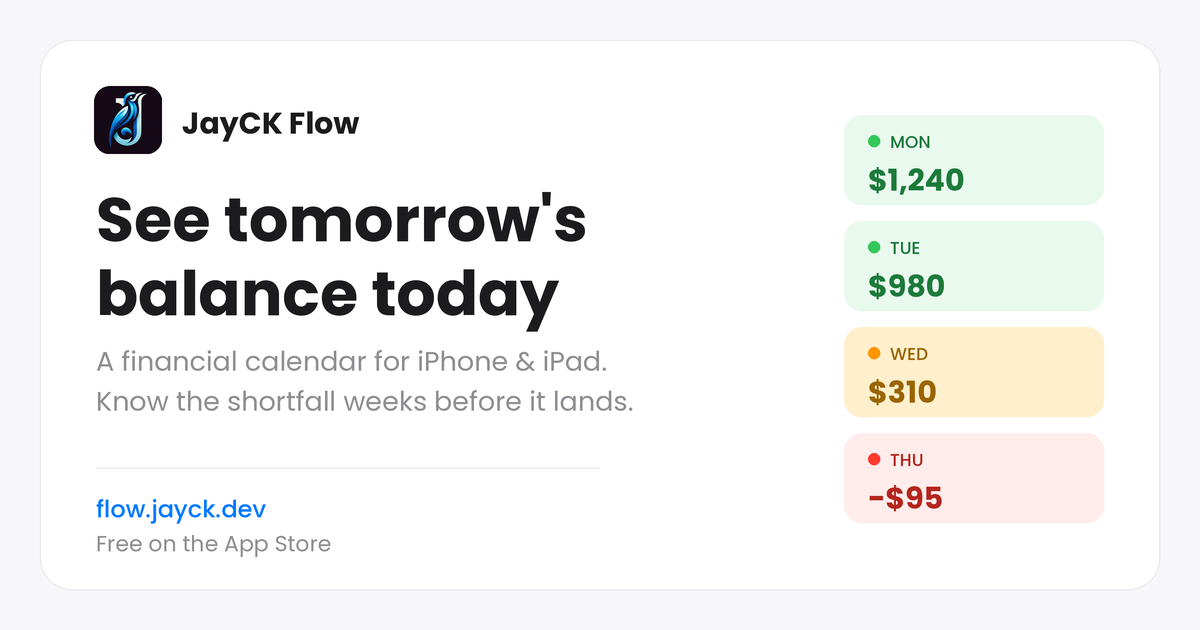
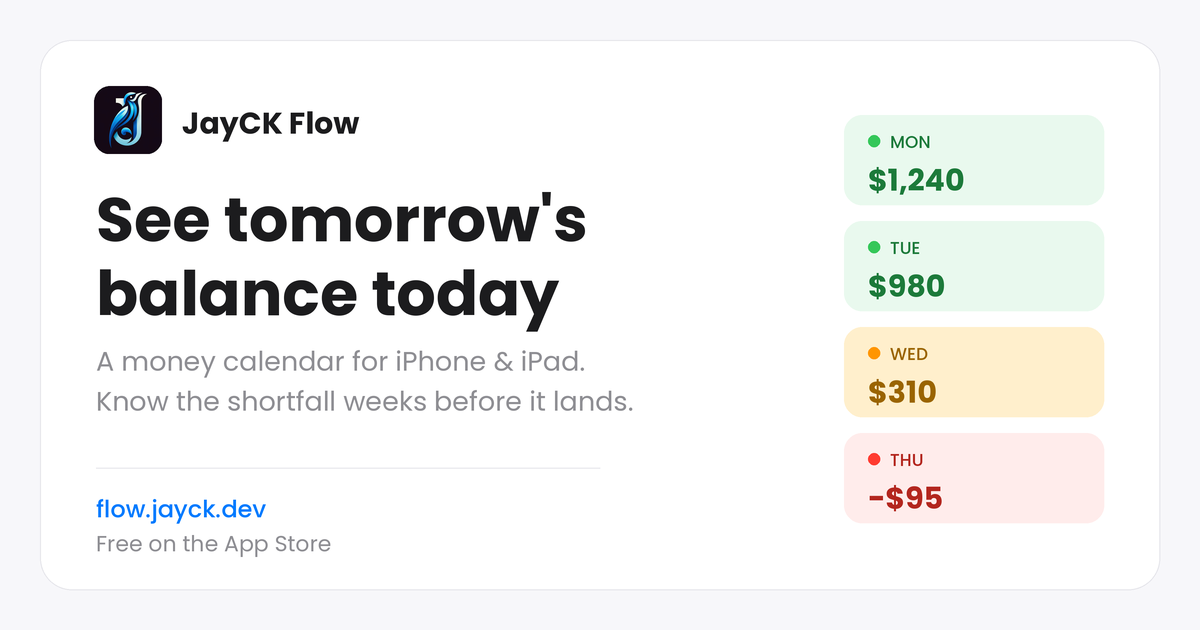
Add files via upload

Changed region(s): [[0.0925, 0.5429, 0.4933, 0.6032]]

diff --git a/index.html b/index.html
@@ -4,25 +4,25 @@
 <meta charset="UTF-8">
 <meta name="viewport" content="width=device-width, initial-scale=1.0, viewport-fit=cover">
 <title>JayCK Flow — See tomorrow's balance today</title>
-<meta name="description" content="JayCK Flow is a financial calendar for iPhone and iPad that shows your future balance before money decisions happen. Free on the App Store.">
+<meta name="description" content="JayCK Flow is a money calendar for iPhone and iPad that shows your future balance before money decisions happen. Free on the App Store.">
 <link rel="canonical" href="https://flow.jayck.dev/">
 <meta property="og:type" content="website">
 <meta property="og:site_name" content="JayCK Flow">
 <meta property="og:url" content="https://flow.jayck.dev/">
 <meta property="og:title" content="JayCK Flow — See tomorrow&#x27;s balance today">
-<meta property="og:description" content="JayCK Flow is a financial calendar for iPhone and iPad that shows your future balance before money decisions happen. Free on the App Store.">
+<meta property="og:description" content="JayCK Flow is a money calendar for iPhone and iPad that shows your future balance before money decisions happen. Free on the App Store.">
 <meta property="og:image" content="https://flow.jayck.dev/og.png">
 <meta property="og:image:secure_url" content="https://flow.jayck.dev/og.png">
 <meta property="og:image:type" content="image/png">
 <meta property="og:image:width" content="1200">
 <meta property="og:image:height" content="630">
-<meta property="og:image:alt" content="JayCK Flow: a financial calendar showing a projected balance sliding from green to red across the week">
+<meta property="og:image:alt" content="JayCK Flow: a money calendar showing a projected balance sliding from green to red across the week">
 <meta property="og:locale" content="en_US">
 <meta name="twitter:card" content="summary_large_image">
 <meta name="twitter:title" content="JayCK Flow — See tomorrow&#x27;s balance today">
-<meta name="twitter:description" content="JayCK Flow is a financial calendar for iPhone and iPad that shows your future balance before money decisions happen. Free on the App Store.">
+<meta name="twitter:description" content="JayCK Flow is a money calendar for iPhone and iPad that shows your future balance before money decisions happen. Free on the App Store.">
 <meta name="twitter:image" content="https://flow.jayck.dev/og.png">
-<meta name="twitter:image:alt" content="JayCK Flow: a financial calendar showing a projected balance sliding from green to red across the week">
+<meta name="twitter:image:alt" content="JayCK Flow: a money calendar showing a projected balance sliding from green to red across the week">
 <link rel="icon" href="/favicon.ico" sizes="32x32">
 <link rel="icon" type="image/png" sizes="16x16" href="/favicon-16x16.png">
 <link rel="icon" type="image/png" sizes="32x32" href="/favicon-32x32.png">
@@ -347,7 +347,7 @@
   "applicationCategory": "FinanceApplication",
   "operatingSystem": "iOS",
   "installUrl": "https://apps.apple.com/app/jayck-flow/id6789696499",
-  "description": "A financial calendar for iPhone and iPad that projects your running balance forward, so a shortfall is visible weeks before it lands.",
+  "description": "A money calendar for iPhone and iPad that projects your running balance forward, so a shortfall is visible weeks before it lands.",
   "offers": {
     "@type": "Offer",
     "price": "0",
@@ -377,7 +377,7 @@
     <div class="narrow" style="text-align:center">
       <h1 class="display t-hero rise">See tomorrow's<br>balance today.</h1>
       <p class="lede rise d1" style="margin:var(--s-3) auto 0;max-width:600px">
-        JayCK Flow is a financial calendar. Put your income, bills and plans on a timeline — and know your future balance before you decide.
+        JayCK Flow is a money calendar. Put your income, bills and plans on a timeline — and know your future balance before you decide.
       </p>
       <p class="rise d2" style="margin-top:var(--s-4)">
         <a class="btn" href="https://apps.apple.com/app/jayck-flow/id6789696499">Download on the App Store</a>

diff --git a/terms.html b/terms.html
@@ -16,13 +16,13 @@
 <meta property="og:image:type" content="image/png">
 <meta property="og:image:width" content="1200">
 <meta property="og:image:height" content="630">
-<meta property="og:image:alt" content="JayCK Flow: a financial calendar showing a projected balance sliding from green to red across the week">
+<meta property="og:image:alt" content="JayCK Flow: a money calendar showing a projected balance sliding from green to red across the week">
 <meta property="og:locale" content="en_US">
 <meta name="twitter:card" content="summary_large_image">
 <meta name="twitter:title" content="Terms of Service — JayCK Flow">
 <meta name="twitter:description" content="JayCK Flow terms of service.">
 <meta name="twitter:image" content="https://flow.jayck.dev/og.png">
-<meta name="twitter:image:alt" content="JayCK Flow: a financial calendar showing a projected balance sliding from green to red across the week">
+<meta name="twitter:image:alt" content="JayCK Flow: a money calendar showing a projected balance sliding from green to red across the week">
 <link rel="icon" href="/favicon.ico" sizes="32x32">
 <link rel="icon" type="image/png" sizes="16x16" href="/favicon-16x16.png">
 <link rel="icon" type="image/png" sizes="32x32" href="/favicon-32x32.png">
@@ -109,7 +109,7 @@
 <p class="date">Effective July 18, 2026</p>
 
 <h2>1. The service</h2>
-<p>JayCK Flow is a personal financial calendar: you enter your incomes, bills, and plans, and the app projects your future balance. Projections are estimates computed from what you enter. <strong>JayCK Flow is a planning tool, not financial advice</strong> — decisions you make based on it are your own.</p>
+<p>JayCK Flow is a personal money calendar: you enter your incomes, bills, and plans, and the app projects your future balance. Projections are estimates computed from what you enter. <strong>JayCK Flow is a planning tool, not financial advice</strong> — decisions you make based on it are your own.</p>
 
 <h2>2. Your account and your passphrase</h2>
 <p>An account (email/password, Sign in with Apple, or Google) is optional and only needed for sync. If you enable sync, your data is encrypted on your device before upload using a passphrase that only you know. <strong>We cannot recover your passphrase or decrypt your synced data.</strong> If the passphrase is lost, the encrypted copy stored on our servers cannot be restored — keep your passphrase safe. Your data remains available on devices where it is stored locally.</p>

diff --git a/privacy.html b/privacy.html
@@ -16,13 +16,13 @@
 <meta property="og:image:type" content="image/png">
 <meta property="og:image:width" content="1200">
 <meta property="og:image:height" content="630">
-<meta property="og:image:alt" content="JayCK Flow: a financial calendar showing a projected balance sliding from green to red across the week">
+<meta property="og:image:alt" content="JayCK Flow: a money calendar showing a projected balance sliding from green to red across the week">
 <meta property="og:locale" content="en_US">
 <meta name="twitter:card" content="summary_large_image">
 <meta name="twitter:title" content="Privacy Policy — JayCK Flow">
 <meta name="twitter:description" content="JayCK Flow privacy policy: your budget is encrypted on your device before sync — we cannot read it.">
 <meta name="twitter:image" content="https://flow.jayck.dev/og.png">
-<meta name="twitter:image:alt" content="JayCK Flow: a financial calendar showing a projected balance sliding from green to red across the week">
+<meta name="twitter:image:alt" content="JayCK Flow: a money calendar showing a projected balance sliding from green to red across the week">
 <link rel="icon" href="/favicon.ico" sizes="32x32">
 <link rel="icon" type="image/png" sizes="16x16" href="/favicon-16x16.png">
 <link rel="icon" type="image/png" sizes="32x32" href="/favicon-32x32.png">
@@ -109,7 +109,7 @@
 <p class="date">Effective July 18, 2026</p>
 
 <h2>What JayCK Flow is</h2>
-<p>JayCK Flow is a financial calendar. You enter incomes, bills, and plans yourself; the app projects your future balance. There are no bank connections, no imports of your credentials, and no advertising.</p>
+<p>JayCK Flow is a money calendar. You enter incomes, bills, and plans yourself; the app projects your future balance. There are no bank connections, no imports of your credentials, and no advertising.</p>
 
 <h2>Data that never leaves your device unencrypted</h2>
 <p>Your budget — transactions, categories, balances, savings, debts — lives on your device. If you enable sync, it is encrypted <em>on your device</em> with a passphrase only you know before anything is uploaded. Our server stores an opaque encrypted blob plus a revision number and timestamps. We cannot decrypt it, and we cannot recover your passphrase. JayCK Flow is designed so that we cannot access the contents of your encrypted financial data.</p>

diff --git a/help.html b/help.html
@@ -16,13 +16,13 @@
 <meta property="og:image:type" content="image/png">
 <meta property="og:image:width" content="1200">
 <meta property="og:image:height" content="630">
-<meta property="og:image:alt" content="JayCK Flow: a financial calendar showing a projected balance sliding from green to red across the week">
+<meta property="og:image:alt" content="JayCK Flow: a money calendar showing a projected balance sliding from green to red across the week">
 <meta property="og:locale" content="en_US">
 <meta name="twitter:card" content="summary_large_image">
 <meta name="twitter:title" content="Help — JayCK Flow">
 <meta name="twitter:description" content="A guide to every screen and button in JayCK Flow: the calendar, the balance card, What if?, savings, debts, sync and settings.">
 <meta name="twitter:image" content="https://flow.jayck.dev/og.png">
-<meta name="twitter:image:alt" content="JayCK Flow: a financial calendar showing a projected balance sliding from green to red across the week">
+<meta name="twitter:image:alt" content="JayCK Flow: a money calendar showing a projected balance sliding from green to red across the week">
 <link rel="icon" href="/favicon.ico" sizes="32x32">
 <link rel="icon" type="image/png" sizes="16x16" href="/favicon-16x16.png">
 <link rel="icon" type="image/png" sizes="32x32" href="/favicon-32x32.png">

diff --git a/support.html b/support.html
@@ -16,13 +16,13 @@
 <meta property="og:image:type" content="image/png">
 <meta property="og:image:width" content="1200">
 <meta property="og:image:height" content="630">
-<meta property="og:image:alt" content="JayCK Flow: a financial calendar showing a projected balance sliding from green to red across the week">
+<meta property="og:image:alt" content="JayCK Flow: a money calendar showing a projected balance sliding from green to red across the week">
 <meta property="og:locale" content="en_US">
 <meta name="twitter:card" content="summary_large_image">
 <meta name="twitter:title" content="Support — JayCK Flow">
 <meta name="twitter:description" content="JayCK Flow support and FAQ.">
 <meta name="twitter:image" content="https://flow.jayck.dev/og.png">
-<meta name="twitter:image:alt" content="JayCK Flow: a financial calendar showing a projected balance sliding from green to red across the week">
+<meta name="twitter:image:alt" content="JayCK Flow: a money calendar showing a projected balance sliding from green to red across the week">
 <link rel="icon" href="/favicon.ico" sizes="32x32">
 <link rel="icon" type="image/png" sizes="16x16" href="/favicon-16x16.png">
 <link rel="icon" type="image/png" sizes="32x32" href="/favicon-32x32.png">
